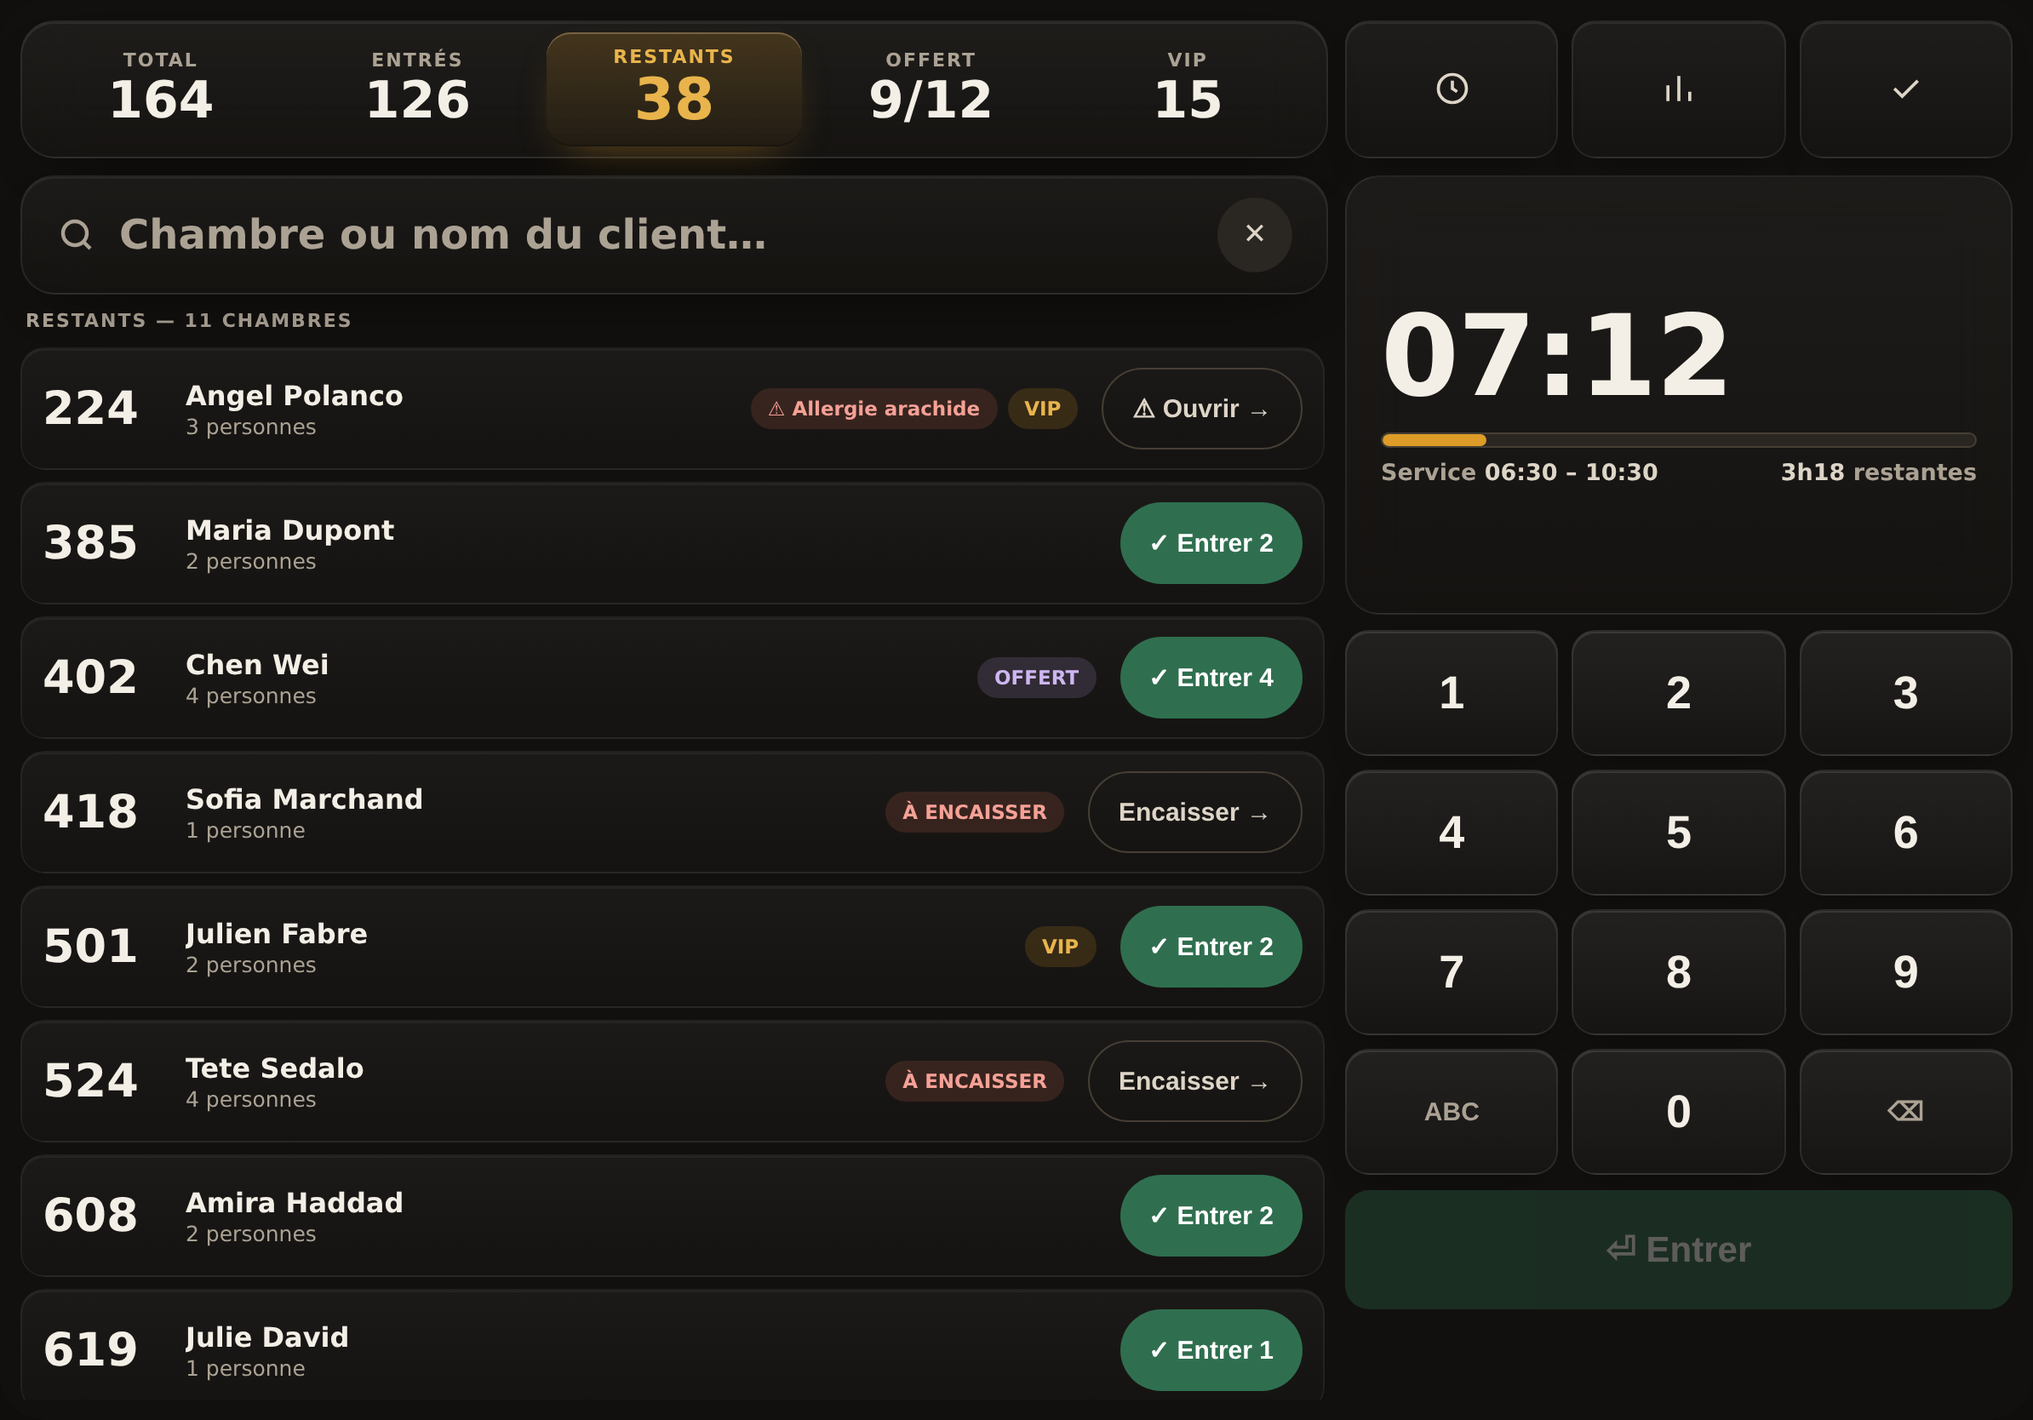
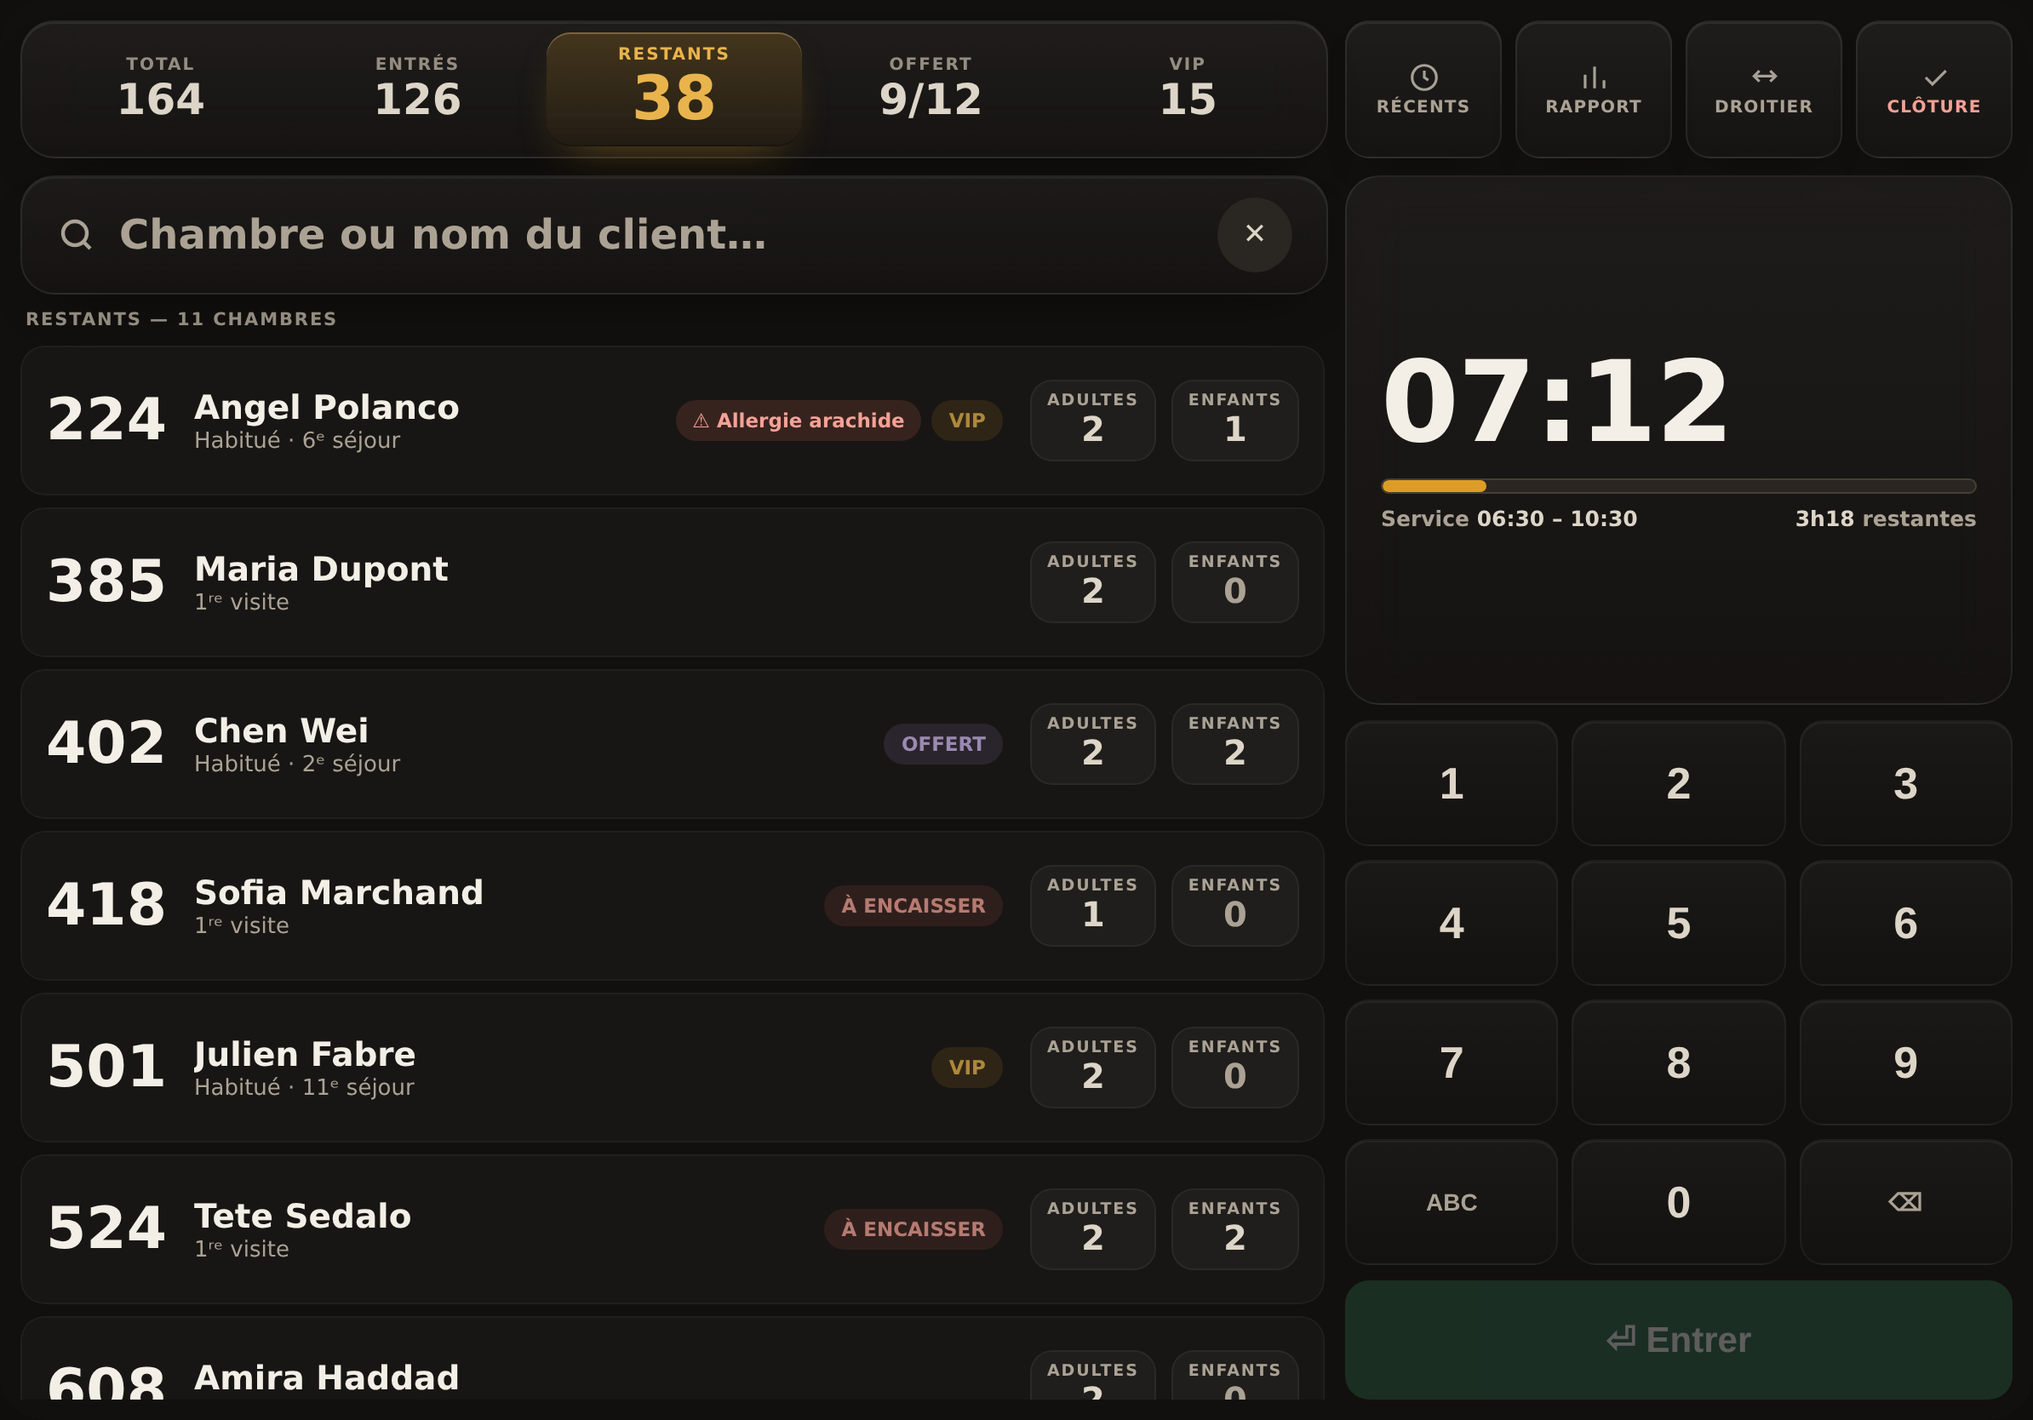
Search v2: attention budget, adult/child boxes, labelled nav, bigger CTA
Everything on the screen was asking for attention, so nothing led. Three
tiers now, and only tier 1 is allowed to be loud: the guest on screen,
the CTA, RESTANTS, and an alert. Room numbers and names scan at tier 2.
Labels, counts, nav, the other four metrics and the keypad recede to
tier 3 — the keypad hardest of all, since nobody reads a number pad, they
aim at it, and it was the brightest block on screen carrying no
information. Only the allergy tag keeps full opacity; VIP, OFFERT and
A ENCAISSER are context, not decisions.

Rows are bigger and carry adults and children as their own boxes, the
same pattern the check-in screen uses. The per-row Entrer button is gone:
tapping a row selects the guest into the preview and the CTA commits,
which keeps a tap-only path for anyone who cannot swipe. 'N personnes'
was repeating the boxes beside it, so that line now carries first-visit
or regular status instead.

The bare check icon was 'close the day' — the user asked what it meant,
which is the finding. Nav items are labelled now, and Cloture is tinted
apart from the two controls used constantly. The left/right handedness
switch lives there too.

Removed the dead 44px band under the CTA (a disabled link still holding
its slot) and gave the height to the button.

Claude-Session: https://claude.ai/code/session_01PvjN1yrwGssKpuvjG4vcfR

diff --git a/mockups/search-v2.html b/mockups/search-v2.html
@@ -38,6 +38,17 @@
   body.light .row.hit{
     background:linear-gradient(180deg,rgba(166,105,20,.15),rgba(166,105,20,.04));
     box-shadow:inset 0 1px 0 rgba(255,255,255,.7),0 10px 24px -16px rgba(166,105,20,.4)}
+  /* ── ATTENTION BUDGET ──────────────────────────────────────────────
+     Three tiers, and only tier 1 is allowed to be loud. Adding emphasis to
+     everything is the same as adding it to nothing.
+
+       T1  decide      the guest on screen, the CTA, RESTANTS, an alert
+       T2  scan        room numbers, names, the clock
+       T3  reference   labels, counts, keypad, nav, the other metrics
+
+     The keypad is deliberately T3: nobody READS a number pad, they aim at
+     it. It was the brightest block on the screen and carried no information.
+  ────────────────────────────────────────────────────────────────── */
   *{box-sizing:border-box;margin:0;padding:0}
   body{
     background:var(--bg); color:var(--ink);
@@ -65,10 +76,10 @@
     box-shadow:inset 0 1px 0 rgba(255,255,255,.07),0 14px 34px -22px rgba(0,0,0,.9)}
   .m{flex:1;text-align:center;padding:8px 4px;border-radius:var(--r-md);cursor:pointer}
   .m:hover{background:var(--surface-2)}
-  .m .lab{font-size:11px;letter-spacing:.09em;text-transform:uppercase;
-    color:var(--muted);font-weight:800}
-  .m .val{font-size:30px;font-weight:800;line-height:1.05;margin-top:2px;
-    font-variant-numeric:tabular-nums;color:var(--ink)}
+  .m .lab{font-size:10px;letter-spacing:.10em;text-transform:uppercase;
+    color:var(--muted);font-weight:700;opacity:.85}
+  .m .val{font-size:25px;font-weight:700;line-height:1.05;margin-top:2px;
+    font-variant-numeric:tabular-nums;color:var(--ink-2)}
   /* ONE accent: what is still outstanding. Everything else is cream. */
   /* The focal cell was a 1.5px gold ring — a hard outline reads as a cheap
      highlighter pass. It is now a lit pane: warm translucent fill, a bright
@@ -78,26 +89,32 @@
     box-shadow:inset 0 1px 0 rgba(255,222,160,.28),
                inset 0 -1px 0 rgba(0,0,0,.22),
                0 10px 26px -14px rgba(221,156,40,.55)}
-  .m.focal .val{color:var(--gold-ink);font-size:34px}
-  .m.focal .lab{color:var(--gold-ink)}
+  .m.focal .val{color:var(--gold-ink);font-size:36px;font-weight:800}
+  .m.focal .lab{color:var(--gold-ink);opacity:1}
   body.rainbow .m.entered .val{color:var(--good)}
   body.rainbow .m.comp .val{color:var(--violet-ink)}
   body.rainbow .m.vip .val{color:var(--gold-ink)}
   .navbtns{display:flex;gap:8px;width:392px;flex:none}
-  .nav{flex:1;min-height:56px;display:grid;place-items:center;border-radius:var(--r-md);
+  .nav{flex:1;min-height:60px;display:flex;flex-direction:column;align-items:center;
+    justify-content:center;gap:3px;border-radius:var(--r-md);
     color:var(--ink-2);cursor:pointer;
     background:linear-gradient(180deg,rgba(255,255,255,.055),rgba(255,255,255,.018));
     border:1px solid rgba(255,255,255,.08);
     box-shadow:inset 0 1px 0 rgba(255,255,255,.07),0 10px 26px -18px rgba(0,0,0,.9)}
   .nav:hover{background:var(--surface-2)}
-  .nav svg{width:22px;height:22px}
+  .nav svg{width:19px;height:19px;opacity:.72}
+  .nav span{font-size:10px;font-weight:800;letter-spacing:.06em;text-transform:uppercase;
+    color:var(--muted)}
+  /* Clôture ends the service day and is not easily undone, so it does not get
+     to look like the two controls beside it that are used constantly. */
+  .nav.danger span{color:var(--bad-ink)}
 
   /* ── body split ─────────────────────────────────────── */
   .body{flex:1;display:flex;gap:10px;min-height:0}
   .left{flex:1;display:flex;flex-direction:column;gap:9px;min-width:0}
   .right{width:392px;display:flex;flex-direction:column;gap:9px}
 
-  .sec{font-size:11px;letter-spacing:.09em;text-transform:uppercase;
+  .sec{font-size:10.5px;opacity:.85;letter-spacing:.09em;text-transform:uppercase;
     color:var(--muted);font-weight:800;padding-left:3px}
 
   /* search bar — the keypad fills it with digits, the on-screen ABC or a
@@ -127,26 +144,41 @@
 
   /* results */
   .list{flex:1;overflow-y:auto;display:flex;flex-direction:column;gap:7px;padding-right:2px}
-  .row{display:flex;align-items:center;gap:14px;padding:11px 12px;border-radius:var(--r-md);
-    cursor:pointer;min-height:66px;
-    background:linear-gradient(180deg,rgba(255,255,255,.045),rgba(255,255,255,.015));
-    border:1px solid rgba(255,255,255,.06);
-    box-shadow:inset 0 1px 0 rgba(255,255,255,.05)}
+  .row{display:flex;align-items:center;gap:16px;padding:12px 14px;border-radius:var(--r-md);
+    cursor:pointer;min-height:88px;
+    background:rgba(255,255,255,.028);
+    border:1px solid rgba(255,255,255,.045)}
   .row:hover{background:var(--surface-2)}
   .row.hit{background:linear-gradient(180deg,rgba(221,156,40,.18),rgba(221,156,40,.05));
     box-shadow:inset 0 1px 0 rgba(255,222,160,.24),0 10px 26px -16px rgba(221,156,40,.5)}
-  .rm{font-size:27px;font-weight:800;font-variant-numeric:tabular-nums;min-width:70px}
+  .rm{font-size:34px;font-weight:800;font-variant-numeric:tabular-nums;min-width:70px}
   .nm{flex:1;min-width:0}
-  .nm .n{font-size:16px;font-weight:700;white-space:nowrap;overflow:hidden;text-overflow:ellipsis}
-  .nm .s{font-size:12.5px;color:var(--muted);margin-top:1px}
+  .nm .n{font-size:19.5px;font-weight:700;white-space:nowrap;overflow:hidden;text-overflow:ellipsis}
+  .nm .s{font-size:13px;color:var(--muted);margin-top:1px}
   .tags{display:flex;gap:6px;align-items:center}
-  .tag{font-size:11.5px;font-weight:800;padding:5px 10px;border-radius:999px;white-space:nowrap}
+  .tag{font-size:11.5px;font-weight:800;padding:5px 10px;border-radius:999px;white-space:nowrap;
+    opacity:.72}
+  .t-alert{opacity:1}   /* the one tag that changes what you do next */
   .t-vip{background:rgba(221,156,40,.16);color:var(--gold-ink)}
   .t-alert{background:rgba(224,104,90,.16);color:var(--bad-ink)}
   .t-comp{background:rgba(185,155,232,.16);color:var(--violet-ink)}
   .t-pay{background:rgba(224,104,90,.16);color:var(--bad-ink)}
-  .go{display:flex;align-items:center;gap:7px;padding:0 17px;min-height:48px;border:none;
-    border-radius:999px;background:var(--good);color:#fff;font-weight:800;font-size:15px;cursor:pointer}
+  /* Adults and children as their own boxes — the same pattern the check-in
+     screen already uses, so the two screens agree on what a room contains.
+     The row no longer carries an Entrer button: tapping the row selects the
+     guest into the preview and the CTA below the keypad commits, which keeps
+     a full keyboard/tap-only path for anyone who cannot swipe. */
+  .paxbox{display:flex;gap:9px;flex:none}
+  .pbox{min-width:68px;text-align:center;border-radius:13px;padding:6px 9px;
+    background:rgba(255,255,255,.035);border:1px solid rgba(255,255,255,.05)}
+  .pbox span{display:block;font-size:9.5px;letter-spacing:.10em;text-transform:uppercase;
+    font-weight:800;color:var(--muted)}
+  .pbox b{display:block;font-size:20px;font-weight:700;line-height:1.15;color:var(--ink-2);font-variant-numeric:tabular-nums}
+  .pbox.zero b{color:var(--muted)}
+  body.light .pbox{background:linear-gradient(180deg,#FFFFFF,#F7F2E9);
+    border:1px solid rgba(42,38,32,.10)}
+  .rowmark{flex:none;min-width:86px;text-align:right;font-size:13px;font-weight:800;
+    color:var(--muted)}
     /* A guest carrying an alert, or one who still owes for breakfast, cannot be
      waved through from the list. The row sends you to the fiche instead. */
   .go.needs{background:transparent;border:1.5px solid var(--key-edge);color:var(--ink-2)}
@@ -210,9 +242,9 @@
   .bar{height:9px;border-radius:999px;background:var(--key);overflow:hidden;margin:11px 0 7px;
     border:1px solid var(--key-edge)}
   .bar i{display:block;height:100%;background:var(--gold);border-radius:999px}
-  .svc{display:flex;justify-content:space-between;font-size:13.5px;color:var(--muted);
-    font-weight:700}
-  .svc b{color:var(--ink-2)}
+  .svc{display:flex;justify-content:space-between;font-size:12.5px;color:var(--muted);
+    font-weight:600}
+  .svc b{color:var(--ink-2);font-weight:700}
 
   /* searching — guest preview, treated as a key card rather than a text block.
      Small-caps labels over large values (Shangri-La Circle), and the VIP
@@ -265,17 +297,17 @@
   .secondary{min-height:44px;border:none;background:none;color:var(--muted);
     font-size:14px;font-weight:700;cursor:pointer;display:flex;align-items:center;
     justify-content:center;gap:7px;text-decoration:underline;text-underline-offset:3px}
-  .secondary[disabled]{opacity:0;pointer-events:none}
-  .enter{min-height:78px;font-size:23px}
+  .secondary[disabled]{display:none}
+  .enter{min-height:96px;font-size:24px}
 
   .pad{display:grid;grid-template-columns:repeat(3,1fr);gap:8px}
-  .k{height:74px;border-radius:var(--r-md);color:var(--ink);font-size:27px;font-weight:700;
-    background:linear-gradient(180deg,rgba(255,255,255,.075),rgba(255,255,255,.022));
-    border:1px solid rgba(255,255,255,.09);
-    box-shadow:inset 0 1px 0 rgba(255,255,255,.10),0 8px 20px -14px rgba(0,0,0,.9);
+  .k{height:74px;border-radius:var(--r-md);color:var(--ink-2);font-size:26px;font-weight:600;
+    background:linear-gradient(180deg,rgba(255,255,255,.038),rgba(255,255,255,.012));
+    border:1px solid rgba(255,255,255,.05);
+    box-shadow:inset 0 1px 0 rgba(255,255,255,.05);
     cursor:pointer;display:grid;place-items:center;font-variant-numeric:tabular-nums}
   .k:active{background:var(--key-press)}
-  .k.alt{font-size:15px;font-weight:800;color:var(--muted)}
+  .k.alt{font-size:14px;font-weight:700;color:var(--muted)}
   .enter{min-height:70px;border:none;border-radius:var(--r-md);background:var(--good);
     color:#fff;font-size:21px;font-weight:800;cursor:pointer;display:flex;
     align-items:center;justify-content:center;gap:10px}
@@ -310,9 +342,10 @@
       <div class="m vip"><div class="lab">VIP</div><div class="val">15</div></div>
     </div>
     <div class="navbtns">
-      <div class="nav" title="Récents"><svg viewBox="0 0 24 24" fill="none" stroke="currentColor" stroke-width="2"><circle cx="12" cy="12" r="9"/><path d="M12 7v5l3 2"/></svg></div>
-      <div class="nav" title="Rapport"><svg viewBox="0 0 24 24" fill="none" stroke="currentColor" stroke-width="2"><path d="M5 20V10M12 20V4M19 20v-6"/></svg></div>
-      <div class="nav" title="Clôturer la journée"><svg viewBox="0 0 24 24" fill="none" stroke="currentColor" stroke-width="2"><path d="M5 12l5 5L20 7"/></svg></div>
+      <div class="nav" title="Historique des check-ins"><svg viewBox="0 0 24 24" fill="none" stroke="currentColor" stroke-width="2"><circle cx="12" cy="12" r="9"/><path d="M12 7v5l3 2"/></svg><span>Récents</span></div>
+      <div class="nav" title="Rapport du service"><svg viewBox="0 0 24 24" fill="none" stroke="currentColor" stroke-width="2"><path d="M5 20V10M12 20V4M19 20v-6"/></svg><span>Rapport</span></div>
+      <div class="nav" id="sideBtn" title="Passer les commandes à gauche ou à droite"><svg viewBox="0 0 24 24" fill="none" stroke="currentColor" stroke-width="2"><path d="M8 7L4 11l4 4M16 7l4 4-4 4M4 11h16"/></svg><span id="sideLab">Droitier</span></div>
+      <div class="nav danger" title="Clôturer la journée"><svg viewBox="0 0 24 24" fill="none" stroke="currentColor" stroke-width="2"><path d="M5 12l5 5L20 7"/></svg><span>Clôture</span></div>
     </div>
   </div>
 
@@ -339,18 +372,18 @@
 
 <script>
 const ROOMS = [
-  {r:"224", n:"Angel Polanco",      p:3, vip:true,  alert:"Allergie arachide", visits:6},
-  {r:"385", n:"Maria Dupont",       p:2, visits:0},
-  {r:"402", n:"Chen Wei",           p:4, comp:true, visits:2},
-  {r:"418", n:"Sofia Marchand",     p:1, pay:true, visits:0},
-  {r:"501", n:"Julien Fabre",       p:2, vip:true, visits:11},
-  {r:"524", n:"Tete Sedalo",        p:4, pay:true, visits:0},
-  {r:"608", n:"Amira Haddad",       p:2},
-  {r:"619", n:"Julie David",        p:1},
-  {r:"702", n:"Lucas Moreau",       p:2, done:true},
-  {r:"715", n:"Nina Kowalski",      p:3},
-  {r:"801", n:"Omar Benali",        p:2},
-  {r:"822", n:"Claire Lefèvre",     p:1, vip:true},
+  {a:2, c:1, r:"224", n:"Angel Polanco",      p:3, vip:true,  alert:"Allergie arachide", visits:6},
+  {a:2, c:0, r:"385", n:"Maria Dupont",       p:2, visits:0},
+  {a:2, c:2, r:"402", n:"Chen Wei",           p:4, comp:true, visits:2},
+  {a:1, c:0, r:"418", n:"Sofia Marchand",     p:1, pay:true, visits:0},
+  {a:2, c:0, r:"501", n:"Julien Fabre",       p:2, vip:true, visits:11},
+  {a:2, c:2, r:"524", n:"Tete Sedalo",        p:4, pay:true, visits:0},
+  {a:2, c:0, r:"608", n:"Amira Haddad",       p:2},
+  {a:1, c:0, r:"619", n:"Julie David",        p:1},
+  {a:2, c:0, r:"702", n:"Lucas Moreau",       p:2, done:true},
+  {a:2, c:1, r:"715", n:"Nina Kowalski",      p:3},
+  {a:2, c:0, r:"801", n:"Omar Benali",        p:2},
+  {a:1, c:0, r:"822", n:"Claire Lefèvre",     p:1, vip:true},
 ];
 const RECENT = ["224","385","402","501"];
 
@@ -500,15 +533,17 @@ var render = function(){
         <div class="rm">${x.r}</div>
         <div class="nm">
           <div class="n">${x.n}</div>
-          <div class="s">${done ? "tous entrés" : inn ? `${inn}/${x.p} entrés` : `${x.p} personne${x.p>1?"s":""}`}</div>
+          <div class="s">${done ? "tous entrés"
+            : inn ? `${inn}/${x.p} entrés`
+            : x.visits > 0 ? `Habitué · ${x.visits}ᵉ séjour` : "1ʳᵉ visite"}</div>
           ${inn && !done ? `<div class="prog"><i style="width:${(inn/x.p*100)}%"></i></div>` : ""}
         </div>
         <div class="tags">${tagsFor(x)}</div>
-        <button class="go ${locked&&!done?"needs":""}">${
-          done ? "✓ Entré"
-          : x.alert ? "⚠ Ouvrir →"
-          : x.pay   ? "Encaisser →"
-          : "✓ Entrer "+rem}</button>
+        <div class="paxbox">
+          <div class="pbox"><span>Adultes</span><b>${x.a}</b></div>
+          <div class="pbox ${x.c?"":"zero"}"><span>Enfants</span><b>${x.c}</b></div>
+        </div>
+        ${done ? `<div class="rowmark" style="color:var(--good-ink)">✓ Entré</div>` : ""}
       </div>
     </div>`;}).join("");
 };
@@ -562,6 +597,12 @@ let drag = null;
 
 /* keep the visible field authoritative after programmatic changes */
 const _r = render; render = function(){ if(el("q").value !== typed) el("q").value = typed; _r(); };
+
+el("list").addEventListener("click", (e)=>{
+  const w = e.target.closest(".swipe"); if(!w) return;
+  if(drag) return;                    // a swipe already handled it
+  typed = w.dataset.r; el("q").value = typed; render();
+});
 
 el("list").addEventListener("pointerdown", (e)=>{
   const row = e.target.closest(".swipe .row"); if(!row) return;
@@ -642,6 +683,11 @@ new MutationObserver(()=>{
   el("split").style.flexDirection =
     document.body.classList.contains("mirror") ? "row-reverse" : "row";
 }).observe(document.body,{attributes:true,attributeFilter:["class"]});
+
+el("sideBtn").addEventListener("click", ()=>{
+  document.body.classList.toggle("mirror");
+  el("sideLab").textContent = document.body.classList.contains("mirror") ? "Gaucher" : "Droitier";
+});
 
 render();
 
